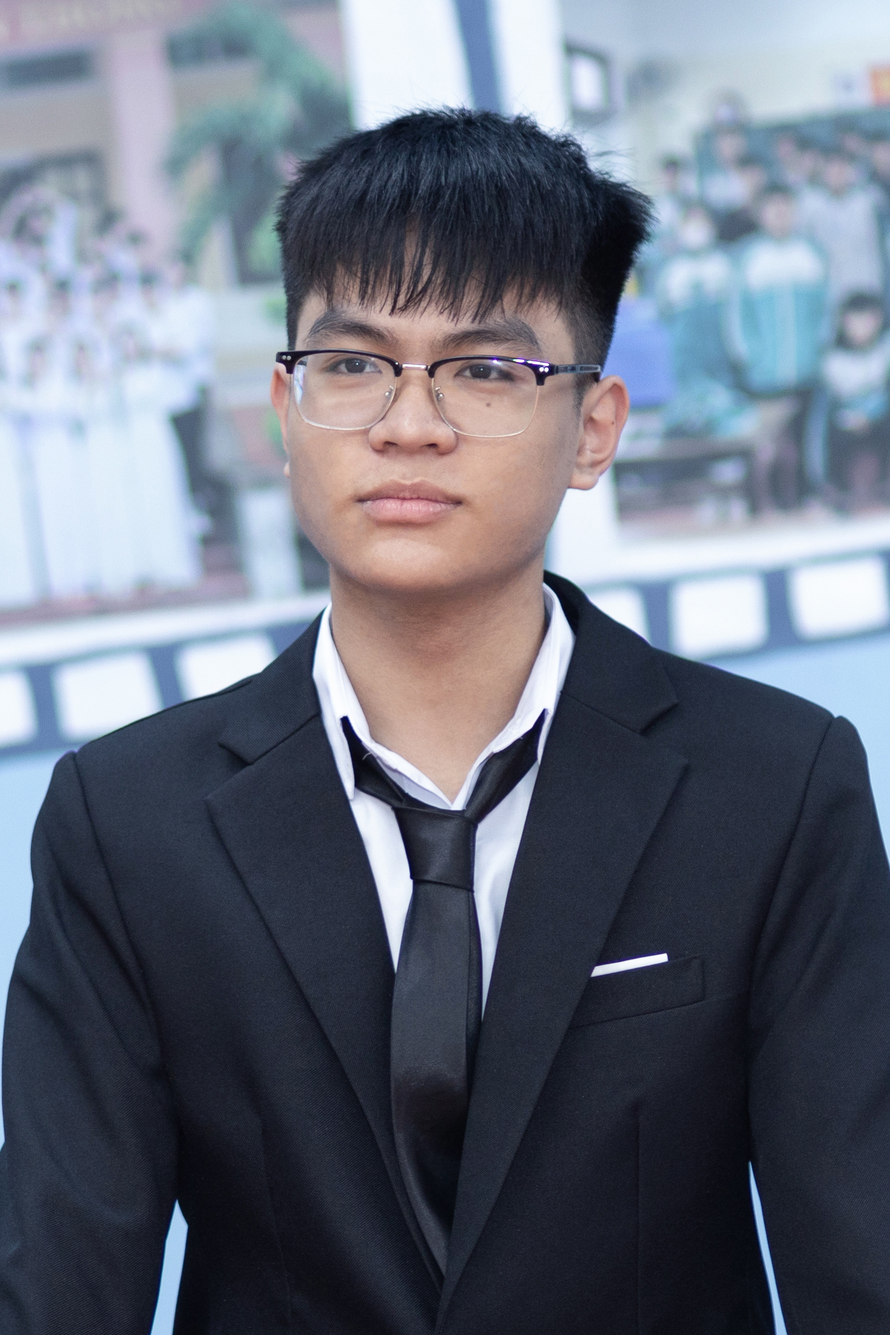
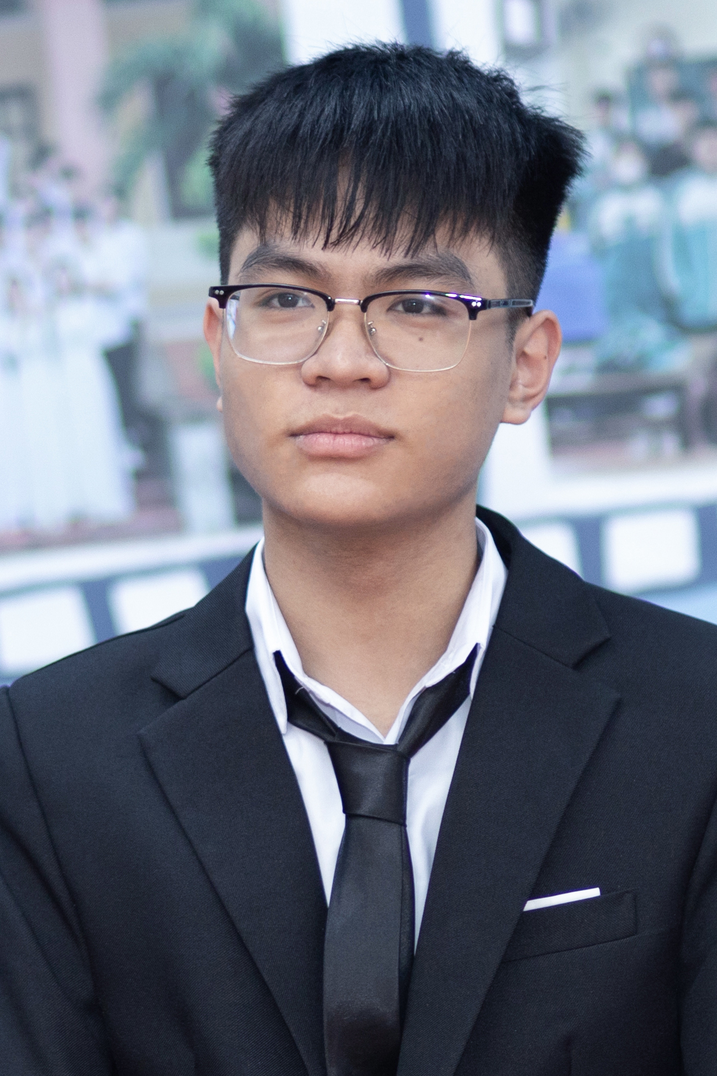
add credit members

diff --git a/frontend/src/elements/footer.tsx b/frontend/src/elements/footer.tsx
@@ -1,69 +1,104 @@
 import React, { useState, useEffect, useRef } from 'react';
 import './footerstyle.css';
+import FB from "/image/facebook.svg";
+import TT from "/image/tiktok.svg";
+import Mail from "/image/mail.svg";
+import Ins from "/image/ins.svg";
+import Git from "/image/github.svg";
 
 const CREDIT_MEMBERS = [
   {
     id: 1,
     name: "Đinh Quốc Thịnh",
-    role: "",
-    quote: "",
-    avatar: "/image/credit_members/PHP.jpg"
+    role: "Lead Content",
+    quote: "\"Ước gì một ngày có 36 tiếng để có thể ngủ 12 tiếng.\"",
+    avatar: "/image/credit_members/DQT.jpg",
+    socials: {
+      instagram: "https://www.instagram.com/biinseventeen"
+    }
   },
   {
     id: 2,
     name: "Phan Hải Phong",
     role: "Lead Dev",
-    quote: "\"Sống nay chết mai\"",
-    avatar: "/image/credit_members/24.jpg"
+    quote: "\"Họ cười tôi vì tôi không giống họ, tôi cười họ vì tưởng họ cười với tôi 🤡\"",
+    avatar: "/image/credit_members/PHP.jpg",
+    socials: {
+      facebook: "https://www.facebook.com/phongphanhai06",
+      instagram: "https://www.instagram.com/phongphanhai06",
+      email: "mailto:phong.phan06@hcmut.edu.vn",
+      github: "https://github.com/haiphongphan"
+    }
   },
   {
     id: 3,
     name: "Lâm Chí Nguyên",
-    role: "",
-    quote: "",
-    avatar: "/image/credit_members/PHP.jpg"
+    role: "Dev Team",
+    quote: "\" \"",
+    avatar: "/image/credit_members/PHP.jpeg",
+    socials: {
+      tiktok: "tiktok.com/...",
+    }
   },
   {
     id: 4,
     name: "Trần Duy Phước Nghĩa",
-    role: "",
-    quote: "",
-    avatar: "/image/credit_members/PHP.jpg"
+    role: "Dev Team",
+    quote: "\" \"",
+    avatar: "/image/credit_members/PHP.jpeg",
+    socials: {
+      tiktok: "tiktok.com/...",
+    }
   },
   {
     id: 5,
     name: "Nguyễn Huy Nhật",
-    role: "",
-    quote: "",
-    avatar: "/image/credit_members/PHP.jpg"
+    role: "Content Team",
+    quote: "\" \"",
+    avatar: "/image/credit_members/PHP.jpeg",
+    socials: {
+      tiktok: "tiktok.com/...",
+    }
   },
   {
     id: 6,
     name: "Hàng Khang Định",
-    role: "",
-    quote: "",
-    avatar: "/image/credit_members/PHP.jpg"
+    role: "Content Team",
+    quote: "\" \"",
+    avatar: "/image/credit_members/HKD.jpg",
+    socials: {
+      tiktok: "tiktok.com/...",
+    }
   },
   {
     id: 7,
     name: "Nguyễn Thị Hồng Ngọc",
-    role: "",
-    quote: "",
-    avatar: "/image/credit_members/PHP.jpg"
+    role: "Content Team",
+    quote: "\" \"",
+    avatar: "/image/credit_members/NTHN.jpg",
+    socials: {
+      tiktok: "tiktok.com/...",
+    }
   },
   {
     id: 8,
     name: "Lê Nguyên Hào",
-    role: "",
-    quote: "",
-    avatar: "/image/credit_members/PHP.jpg"
+    role: "Content Team",
+    quote: "\" \"",
+    avatar: "/image/credit_members/LNH.jpg",
+    socials: {
+      tiktok: "tiktok.com/...",
+    }
   },
   {
     id: 9,
     name: "Văn Huỳnh Như",
-    role: "",
-    quote: "",
-    avatar: "/image/credit_members/PHP.jpg"
+    role: "Illustrator",
+    quote: "\" \"",
+    avatar: "/image/credit_members/PHP.jpeg",
+    socials: {
+      tiktok: "tiktok.com/...",
+    }
   }
 ];
 
@@ -81,7 +116,7 @@ const Footer: React.FC = () => {
       setSlideDirection("next");
       setIsCreditAnimating(true);
       setCreditIndex((prev) => (prev + 1) % CREDIT_MEMBERS.length);
-    }, 2000);
+    }, 5000);
     return () => clearInterval(timer);
   }, [isAutoPlaying]);
 
@@ -120,6 +155,33 @@ const Footer: React.FC = () => {
   const handleCreditAnimationEnd = () => {
     setIsCreditAnimating(false);
   };
+  // Vuốt slide trên mobile
+  const [touchPosition, setTouchPosition] = useState<number | null>(null);
+  
+  const handleTouchStart = (e: React.TouchEvent) => {
+    const touchDown = e.touches[0].clientX;
+    setTouchPosition(touchDown);
+  };
+
+  const handleTouchMove = (e: React.TouchEvent) => {
+    const touchDown = touchPosition;
+    if (touchDown === null) return;
+
+    const currentTouch = e.touches[0].clientX;
+    const diff = touchDown - currentTouch;
+
+    // Vuốt sang trái (next slide)
+    if (diff > 50) {
+      handleNextCredit();
+      setTouchPosition(null);
+    }
+
+    // Vuốt sang phải (prev slide)
+    if (diff < -50) {
+      handlePrevCredit();
+      setTouchPosition(null);
+    }
+  };
 
   return (
     <footer className="footer__container_01">
@@ -133,7 +195,7 @@ const Footer: React.FC = () => {
           </p>
 
           {/* Khối slide thành viên nhỏ gọn trong footer với 2 nút bấm điều hướng */}
-          <div className="footer__credit-slider-wrapper_01">
+          <div className="footer__credit-slider-wrapper_01" onTouchStart={handleTouchStart} onTouchMove={handleTouchMove}>
             {/* Nút mũi tên TRÁI */}
             <button 
               className="footer__credit-nav-btn_01 footer__credit-nav-left_01" 
@@ -175,6 +237,34 @@ const Footer: React.FC = () => {
                   {CREDIT_MEMBERS[creditIndex].quote && (
                     <p className="footer__member-quote_01">{CREDIT_MEMBERS[creditIndex].quote}</p>
                   )}
+                  {/* ── Cụm Icon Social ── */}
+                  <div className="member-socials">
+                    {CREDIT_MEMBERS[creditIndex].socials?.facebook && (
+                      <a href={CREDIT_MEMBERS[creditIndex].socials.facebook} target="_blank" rel="noopener noreferrer" className="member-social-btn" title="Facebook">
+                        <img src={FB} alt="Facebook" />
+                      </a>
+                    )}
+                    {CREDIT_MEMBERS[creditIndex].socials?.instagram && (
+                      <a href={CREDIT_MEMBERS[creditIndex].socials.instagram} target="_blank" rel="noopener noreferrer" className="member-social-btn" title="Instagram">
+                        <img src={Ins} alt="Instagram" />
+                      </a>
+                    )}
+                    {CREDIT_MEMBERS[creditIndex].socials?.tiktok && (
+                      <a href={CREDIT_MEMBERS[creditIndex].socials.tiktok} target="_blank" rel="noopener noreferrer" className="member-social-btn" title="TikTok">
+                        <img src={TT} alt="TikTok" />
+                      </a>
+                    )}
+                    {CREDIT_MEMBERS[creditIndex].socials?.email && (
+                      <a href={CREDIT_MEMBERS[creditIndex].socials.email} className="member-social-btn" title="Email">
+                        <img src={Mail} alt="Email" />
+                      </a>
+                    )}
+                    {CREDIT_MEMBERS[creditIndex].socials?.github && (
+                      <a href={CREDIT_MEMBERS[creditIndex].socials.github} target="_blank" rel="noopener noreferrer" className="member-social-btn" title="GitHub">
+                        <img src={Git} alt="GitHub" />
+                      </a>
+                    )}
+                  </div>
                 </div>
               </div>
 

diff --git a/frontend/src/elements/footerstyle.css b/frontend/src/elements/footerstyle.css
@@ -113,7 +113,8 @@
   flex: 1;
   overflow: hidden;
   gap: 4px;
-  height: 105px;
+  height: auto;
+  max-height: 140px;
 }
 
 .footer__member-name_01 {
@@ -149,7 +150,7 @@
   white-space: normal;
   word-break: break-word;
   display: -webkit-box;
-  -webkit-line-clamp: 2;
+  -webkit-line-clamp: 5;
   -webkit-box-orient: vertical;
   overflow: hidden;
   line-height: 1.4;
@@ -205,7 +206,7 @@
 @keyframes footerSlideFromRight {
   from {
     opacity: 0;
-    transform: translateX(20px);
+    transform: translateX(30px);
   }
   to {
     opacity: 1;
@@ -216,7 +217,7 @@
 @keyframes footerSlideFromLeft {
   from {
     opacity: 0;
-    transform: translateX(-20px);
+    transform: translateX(-30px);
   }
   to {
     opacity: 1;
@@ -332,4 +333,46 @@
   .footer__links_01 {
     justify-content: center;
   }
+}
+
+/* ── SỬA LẠI CSS CHO CỤM SOCIALS TRONG FOOTER ── */
+.footer__container_01 .member-socials {
+  display: flex;
+  align-items: center;
+  justify-content: flex-start; /* Căn trái cùng với chữ */
+  gap: 8px;
+  margin-top: 6px;
+}
+
+/* Tùy chỉnh kích thước từng nút Icon vừa vặn với Footer */
+.footer__container_01 .member-social-btn {
+  display: flex;
+  align-items: center;
+  justify-content: center;
+  width: 24px;                  /* Kích thước vừa vặn 24px */
+  height: 24px;
+  border-radius: 50%;
+  background-color: #f0edfa;
+  transition: all 0.2s ease;
+  flex-shrink: 0;
+}
+
+.footer__container_01 .member-social-btn img {
+  width: 13px;                  /* Kích thước icon SVG bên trong */
+  height: 13px;
+  filter: grayscale(100%);
+  opacity: 0.7;
+  transition: all 0.2s ease;
+  display: block;
+}
+
+/* Hiệu ứng rê chuột */
+.footer__container_01 .member-social-btn:hover {
+  background-color: #7b61ff;
+  transform: translateY(-2px);
+}
+
+.footer__container_01 .member-social-btn:hover img {
+  filter: grayscale(0%) brightness(0) invert(1);
+  opacity: 1;
 }
